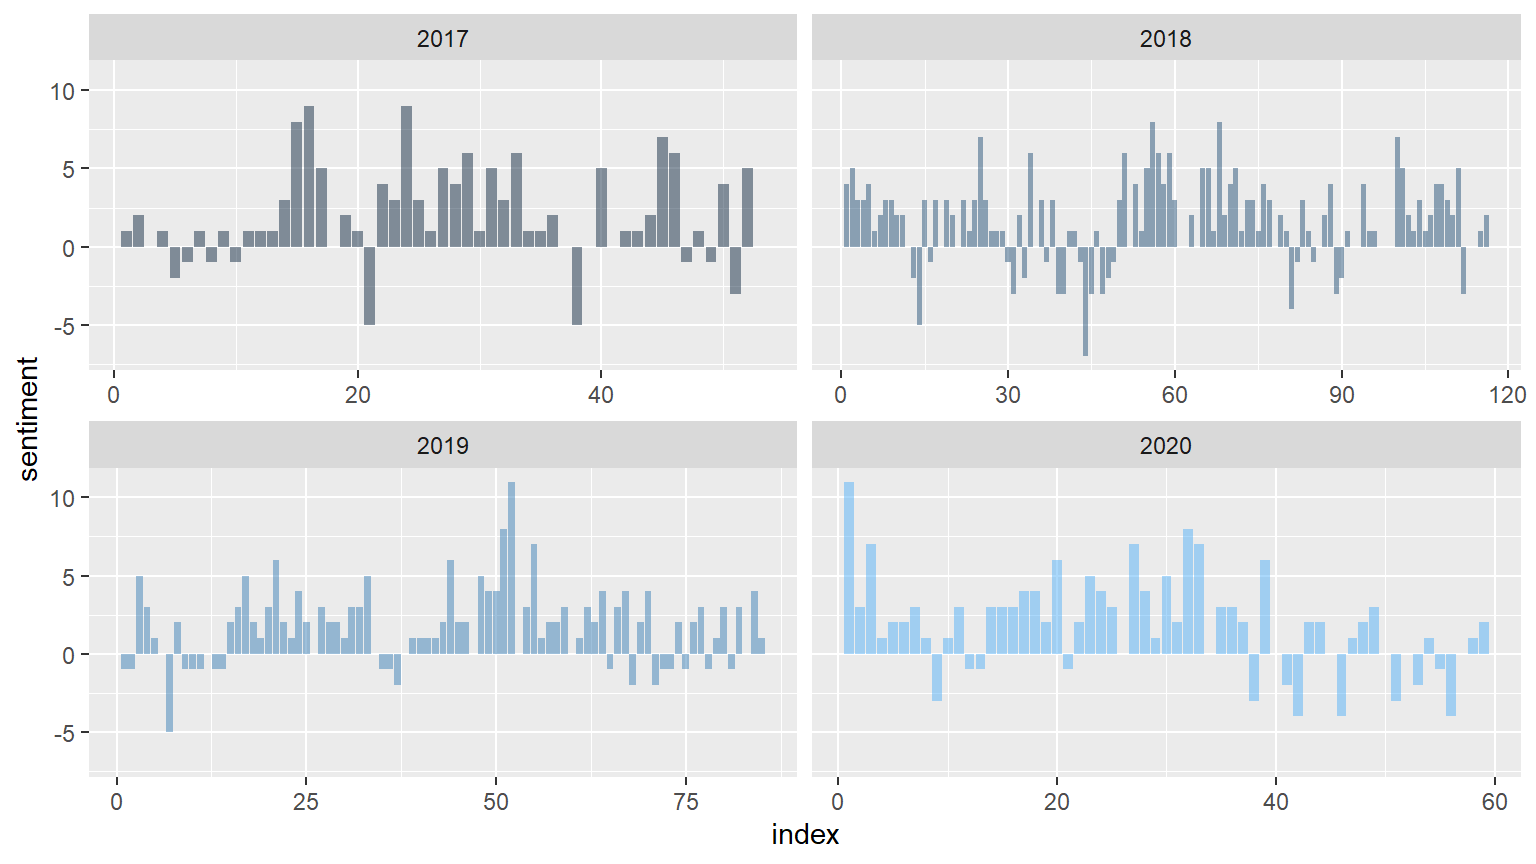
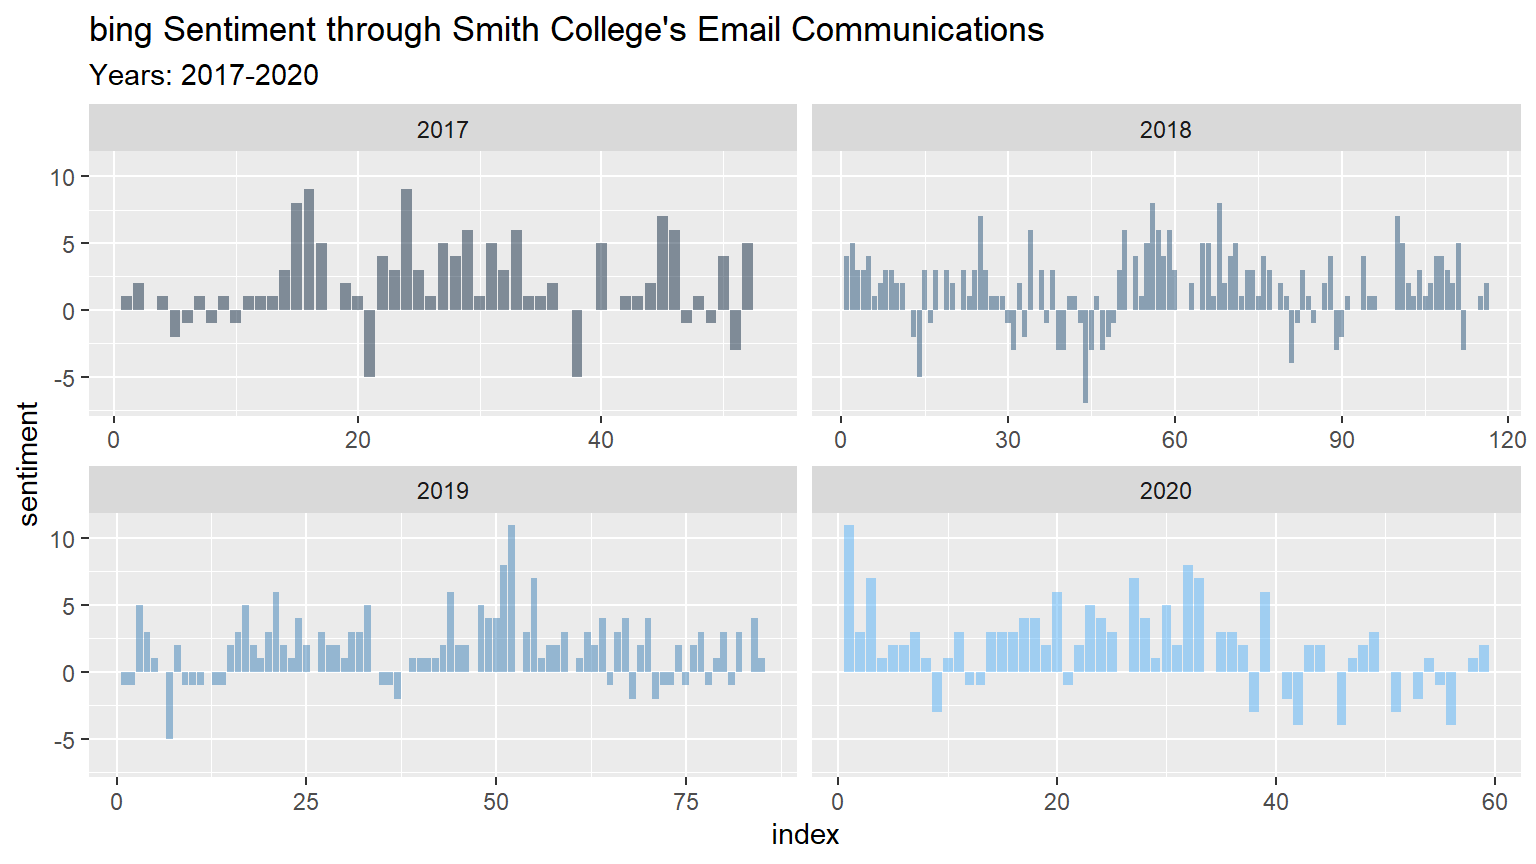
final bing edit

diff --git a/docs/analysis.html b/docs/analysis.html
@@ -515,10 +515,11 @@ div.tocify {
 <span id="cb2-16"><a href="#cb2-16"></a>         <span class="dt">date =</span> <span class="kw">factor</span>(year)) <span class="op">%&gt;%</span></span>
 <span id="cb2-17"><a href="#cb2-17"></a><span class="st">  </span><span class="kw">ggplot</span>(<span class="kw">aes</span>(index, sentiment, <span class="dt">fill =</span> year)) <span class="op">+</span></span>
 <span id="cb2-18"><a href="#cb2-18"></a><span class="st">  </span><span class="kw">geom_bar</span>(<span class="dt">alpha =</span> <span class="fl">0.5</span>, <span class="dt">stat =</span> <span class="st">&quot;identity&quot;</span>, <span class="dt">show.legend =</span> <span class="ot">FALSE</span>) <span class="op">+</span></span>
-<span id="cb2-19"><a href="#cb2-19"></a><span class="st">  </span><span class="kw">facet_wrap</span>(<span class="op">~</span><span class="st"> </span>date, <span class="dt">ncol =</span> <span class="dv">2</span>, <span class="dt">scales =</span> <span class="st">&quot;free_x&quot;</span>)</span>
-<span id="cb2-20"><a href="#cb2-20"></a>bing_score</span></code></pre></div>
+<span id="cb2-19"><a href="#cb2-19"></a><span class="st">  </span><span class="kw">facet_wrap</span>(<span class="op">~</span><span class="st"> </span>date, <span class="dt">ncol =</span> <span class="dv">2</span>, <span class="dt">scales =</span> <span class="st">&quot;free_x&quot;</span>) <span class="op">+</span></span>
+<span id="cb2-20"><a href="#cb2-20"></a><span class="st">  </span><span class="kw">labs</span>(<span class="dt">title =</span> <span class="st">&quot;bing Sentiment through Smith College&#39;s Email Communications&quot;</span>, <span class="dt">subtitle =</span> <span class="st">&quot;Years: 2017-2020&quot;</span>)</span>
+<span id="cb2-21"><a href="#cb2-21"></a>bing_score</span></code></pre></div>
 <p><img src="analysis_files/figure-html/unnamed-chunk-2-1.png" width="768" /></p>
-<p>We were interested to see how the sentiment score of the grouped content, consisting of <span class="math inline">\(50\)</span> words each, changes as time passes within the four years. For the most part, emails communicated in <span class="math inline">\(2020\)</span> were positive overall, however, over time the emails begin to have content that the bing lexicon determines as negative. In our raw data, COVID-19 related emails began February <span class="math inline">\(7\)</span>th, <span class="math inline">\(2020\)</span>, and since then the sentiments of the emails have been negative. There have also been more words contained in the <span class="math inline">\(2020\)</span> emails in comparison to the other three years. The only other year that has a similar negative sentiment as <span class="math inline">\(2020\)</span> is <span class="math inline">\(2018\)</span>, and a significant number of <span class="math inline">\(2018\)</span> emails dealt with campus climate and issues of inclusion and equity. Clearly, according to the bing lexicon, communication between the administration and the Smith community is more likely to be negative than in the other three years.</p>
+<p>We were interested to see how the sentiment score of the grouped content, consisting of <span class="math inline">\(50\)</span> words each, changes as time passes within the four years. For the most part, emails communicated in 2020 were positive overall, however, over time the emails begin to have content that the bing lexicon determines as negative. In our raw data, COVID-19 related emails began February 7th, 2020, and since then the sentiments of the emails have been negative. There have also been more words contained in the 2020 emails in comparison to the other three years. The only other year that has a similar negative sentiment as 2020 is 2018, and a significant number of 2018 emails dealt with campus climate and issues of inclusion and equity. Clearly, according to the bing lexicon, communication between the administration and the Smith community is more likely to be negative than in the other three years.</p>
 </div>
 <div id="visualization-2" class="section level2">
 <h2>Visualization 2</h2>
